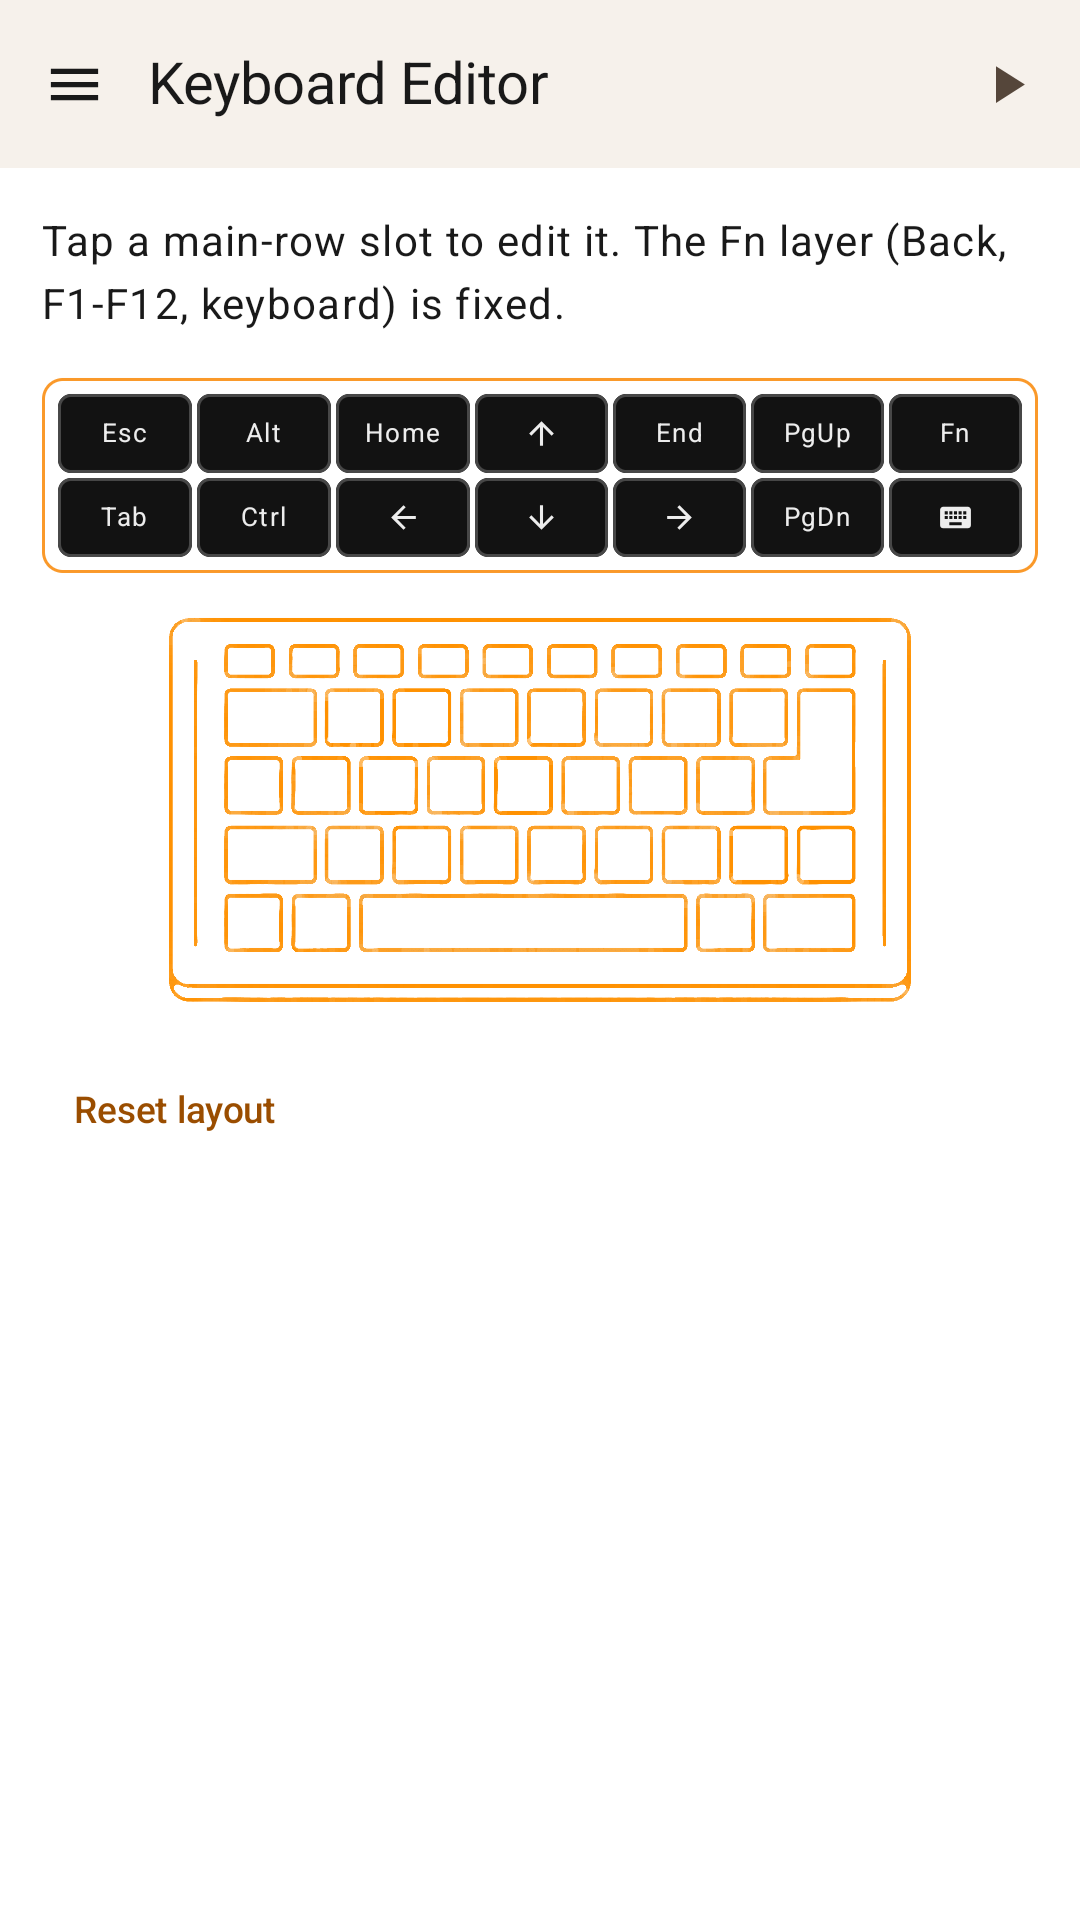
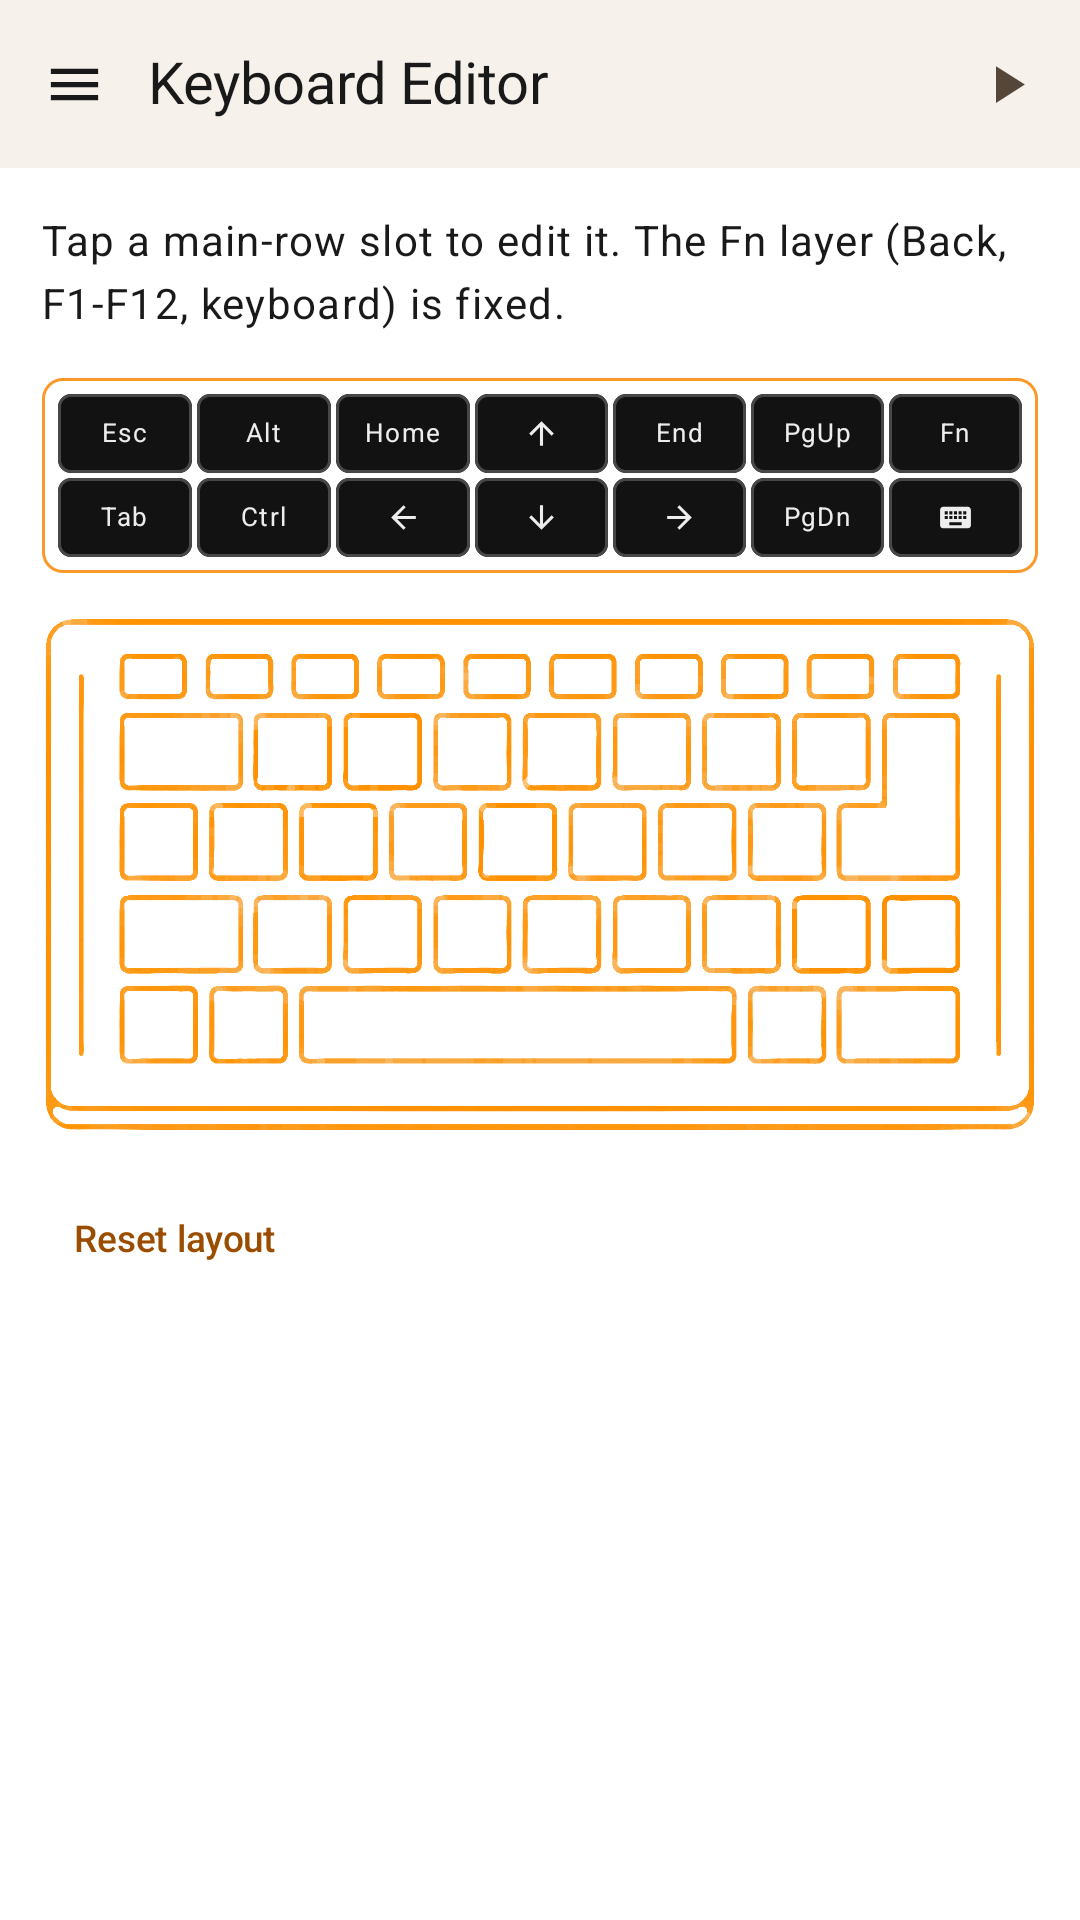
Keyboard editor: key rows and keyboard picture share one width
The keyboard picture was capped at twice the key block's height, so it
was narrower than the key rows on phones and much narrower on tablets.
Both now use one width: the widest that still fits the picture on
screen, capped at 980dp, but never under 360dp so key labels stay
readable (short landscape screens scroll instead). Re-shot the phone,
7" and 10" keyboard editor screenshots.

Changed region(s): [[0.0306, 0.3125, 0.9778, 0.5938], [0.0611, 0.625, 0.2444, 0.6562]]

diff --git a/app/src/main/java/com/sshpeaches/app/ui/screens/KeyboardEditorScreen.kt b/app/src/main/java/com/sshpeaches/app/ui/screens/KeyboardEditorScreen.kt
@@ -13,6 +13,7 @@ import androidx.compose.foundation.layout.ExperimentalLayoutApi
 import androidx.compose.foundation.layout.FlowRow
 import androidx.compose.foundation.layout.Row
 import androidx.compose.foundation.layout.RowScope
+import androidx.compose.foundation.layout.aspectRatio
 import androidx.compose.foundation.layout.fillMaxSize
 import androidx.compose.foundation.layout.fillMaxWidth
 import androidx.compose.foundation.layout.height
@@ -24,8 +25,6 @@ import androidx.compose.foundation.rememberScrollState
 import androidx.compose.foundation.shape.RoundedCornerShape
 import androidx.compose.foundation.verticalScroll
 import androidx.compose.material.icons.Icons
-import androidx.compose.material3.Card
-import androidx.compose.material3.CardDefaults
 import androidx.compose.material3.Checkbox
 import androidx.compose.material3.Icon
 import androidx.compose.material3.MaterialTheme
@@ -69,6 +68,7 @@ fun KeyboardEditorScreen(
     val editorIndex = remember { mutableStateOf<Int?>(null) }
     val normalizedSlots = remember(slots) { KeyboardLayoutDefaults.normalizeSlots(slots) }
     val keyBlockHeightPx = remember { mutableIntStateOf(0) }
+    val introHeightPx = remember { mutableIntStateOf(0) }
     val activeEditorIndex = editorIndex.value
 
     BackHandler(enabled = activeEditorIndex != null) {
@@ -102,100 +102,105 @@ fun KeyboardEditorScreen(
                     .fillMaxSize()
                     .testTag(UiTestTags.SCREEN_KEYBOARD)
             ) {
-                Column(
+                BoxWithConstraints(
                     modifier = Modifier
                         .widthIn(max = if (shellLayoutMode == ShellLayoutMode.WIDE) 1400.dp else 980.dp)
                         .fillMaxSize()
                         .align(Alignment.TopCenter)
-                        .padding(16.dp),
-                    verticalArrangement = Arrangement.spacedBy(16.dp)
                 ) {
-            Text("Tap a main-row slot to edit it. The Fn layer (Back, F1-F12, keyboard) is fixed.")
-
-            BoxWithConstraints(
-                modifier = Modifier
-                    .fillMaxWidth()
-                    .border(1.dp, Color(0xFFFA992A), RoundedCornerShape(8.dp))
-                    .onSizeChanged { keyBlockHeightPx.intValue = it.height }
-                    .padding(horizontal = 6.dp, vertical = 6.dp)
-            ) {
-                val rows = remember(normalizedSlots) {
-                    normalizedSlots.chunked(KeyboardLayoutDefaults.SLOT_COLUMNS)
-                }
-                val useWideLayout = maxWidth >= KEYBOARD_EDITOR_WIDE_LAYOUT_MIN_WIDTH
-                val shouldSplitColumns = useWideLayout && rows.size > 2
-                if (shouldSplitColumns) {
-                    Row(
-                        modifier = Modifier.fillMaxWidth(),
-                        horizontalArrangement = Arrangement.spacedBy(8.dp)
-                    ) {
-                        KeyboardSlotRows(
-                            rows = rows.take(2),
-                            rowOffset = 0,
-                            onSlotClick = { editorIndex.value = it },
-                            modifier = Modifier.weight(1f)
-                        )
-                        KeyboardSlotRows(
-                            rows = rows.drop(2),
-                            rowOffset = 2,
-                            onSlotClick = { editorIndex.value = it },
-                            modifier = Modifier.weight(1f)
-                        )
-                    }
-                } else {
-                    KeyboardSlotRows(
-                        rows = rows,
-                        rowOffset = 0,
-                        onSlotClick = { editorIndex.value = it },
-                        modifier = Modifier.fillMaxWidth()
-                    )
-                }
-            }
-
-            Card(
-                modifier = Modifier
-                    .fillMaxWidth(),
-                colors = CardDefaults.cardColors(containerColor = Color.Transparent)
-            ) {
-                BoxWithConstraints(
-                    modifier = Modifier.fillMaxWidth(),
-                    contentAlignment = Alignment.TopCenter
-                ) {
+                    // The key rows and the keyboard picture share one width, the largest that fits the
+                    // picture on screen below them, but never so narrow the key labels stop fitting
+                    // (short landscape screens scroll instead).
                     val density = LocalDensity.current
+                    val introHeight = with(density) { introHeightPx.intValue.toDp() }
                     val keyBlockHeight = with(density) {
                         if (keyBlockHeightPx.intValue > 0) keyBlockHeightPx.intValue.toDp()
-                        else KEYBOARD_ILLUSTRATION_FALLBACK_HEIGHT
+                        else KEYBOARD_KEY_BLOCK_FALLBACK_HEIGHT
                     }
-                    val maxIllustrationHeight = keyBlockHeight * KEYBOARD_ILLUSTRATION_MAX_HEIGHT_MULTIPLIER
-                    val illustrationWidth = maxWidth.coerceAtMost(KEYBOARD_ILLUSTRATION_MAX_WIDTH)
-                    val naturalHeight = illustrationWidth / KEYBOARD_ILLUSTRATION_ASPECT_RATIO
-                    val illustrationHeight = naturalHeight.coerceIn(
-                        minimumValue = keyBlockHeight,
-                        maximumValue = maxIllustrationHeight
-                    )
+                    val contentWidth = maxWidth - 32.dp
+                    val pictureMaxHeight = maxHeight - 32.dp - introHeight - keyBlockHeight -
+                        KEYBOARD_RESET_BUTTON_HEIGHT - 48.dp
+                    val sharedWidth = minOf(
+                        contentWidth,
+                        KEYBOARD_ILLUSTRATION_MAX_WIDTH,
+                        pictureMaxHeight * KEYBOARD_ILLUSTRATION_ASPECT_RATIO
+                    ).coerceAtLeast(minOf(KEYBOARD_KEY_BLOCK_MIN_WIDTH, contentWidth))
 
-                    Box(
+                    Column(
                         modifier = Modifier
-                            .width(illustrationWidth)
-                            .height(illustrationHeight),
-                        contentAlignment = Alignment.Center
+                            .fillMaxSize()
+                            .verticalScroll(rememberScrollState())
+                            .padding(16.dp),
+                        verticalArrangement = Arrangement.spacedBy(16.dp)
                     ) {
-                        Image(
-                            painter = painterResource(id = R.drawable.keyboard),
-                            contentDescription = "Keyboard illustration",
-                            contentScale = ContentScale.Fit,
-                            modifier = Modifier.fillMaxSize()
+                        Text(
+                            "Tap a main-row slot to edit it. The Fn layer (Back, F1-F12, keyboard) is fixed.",
+                            modifier = Modifier.onSizeChanged { introHeightPx.intValue = it.height }
                         )
-                    }
-                }
-            }
 
-            TextButton(
-                onClick = onReset,
-                modifier = Modifier.testTag(UiTestTags.KEYBOARD_RESET_BUTTON)
-            ) {
-                Text("Reset layout")
-            }
+                        Column(
+                            modifier = Modifier
+                                .width(sharedWidth)
+                                .align(Alignment.CenterHorizontally),
+                            verticalArrangement = Arrangement.spacedBy(16.dp)
+                        ) {
+                            BoxWithConstraints(
+                                modifier = Modifier
+                                    .fillMaxWidth()
+                                    .border(1.dp, Color(0xFFFA992A), RoundedCornerShape(8.dp))
+                                    .onSizeChanged { keyBlockHeightPx.intValue = it.height }
+                                    .padding(horizontal = 6.dp, vertical = 6.dp)
+                            ) {
+                                val rows = remember(normalizedSlots) {
+                                    normalizedSlots.chunked(KeyboardLayoutDefaults.SLOT_COLUMNS)
+                                }
+                                val useWideLayout = maxWidth >= KEYBOARD_EDITOR_WIDE_LAYOUT_MIN_WIDTH
+                                val shouldSplitColumns = useWideLayout && rows.size > 2
+                                if (shouldSplitColumns) {
+                                    Row(
+                                        modifier = Modifier.fillMaxWidth(),
+                                        horizontalArrangement = Arrangement.spacedBy(8.dp)
+                                    ) {
+                                        KeyboardSlotRows(
+                                            rows = rows.take(2),
+                                            rowOffset = 0,
+                                            onSlotClick = { editorIndex.value = it },
+                                            modifier = Modifier.weight(1f)
+                                        )
+                                        KeyboardSlotRows(
+                                            rows = rows.drop(2),
+                                            rowOffset = 2,
+                                            onSlotClick = { editorIndex.value = it },
+                                            modifier = Modifier.weight(1f)
+                                        )
+                                    }
+                                } else {
+                                    KeyboardSlotRows(
+                                        rows = rows,
+                                        rowOffset = 0,
+                                        onSlotClick = { editorIndex.value = it },
+                                        modifier = Modifier.fillMaxWidth()
+                                    )
+                                }
+                            }
+
+                            Image(
+                                painter = painterResource(id = R.drawable.keyboard),
+                                contentDescription = "Keyboard illustration",
+                                contentScale = ContentScale.Fit,
+                                modifier = Modifier
+                                    .fillMaxWidth()
+                                    .aspectRatio(KEYBOARD_ILLUSTRATION_ASPECT_RATIO)
+                            )
+
+                            TextButton(
+                                onClick = onReset,
+                                modifier = Modifier.testTag(UiTestTags.KEYBOARD_RESET_BUTTON)
+                            ) {
+                                Text("Reset layout")
+                            }
+                        }
+                    }
                 }
             }
         },
@@ -484,7 +489,8 @@ private fun PresetRow(
 }
 
 private const val KEYBOARD_ILLUSTRATION_ASPECT_RATIO = 2160f / 1126f
-private val KEYBOARD_ILLUSTRATION_FALLBACK_HEIGHT = 180.dp
 private val KEYBOARD_ILLUSTRATION_MAX_WIDTH = 980.dp
 private val KEYBOARD_EDITOR_WIDE_LAYOUT_MIN_WIDTH = 600.dp
-private const val KEYBOARD_ILLUSTRATION_MAX_HEIGHT_MULTIPLIER = 2f
+private val KEYBOARD_KEY_BLOCK_FALLBACK_HEIGHT = 76.dp
+private val KEYBOARD_KEY_BLOCK_MIN_WIDTH = 360.dp
+private val KEYBOARD_RESET_BUTTON_HEIGHT = 48.dp
